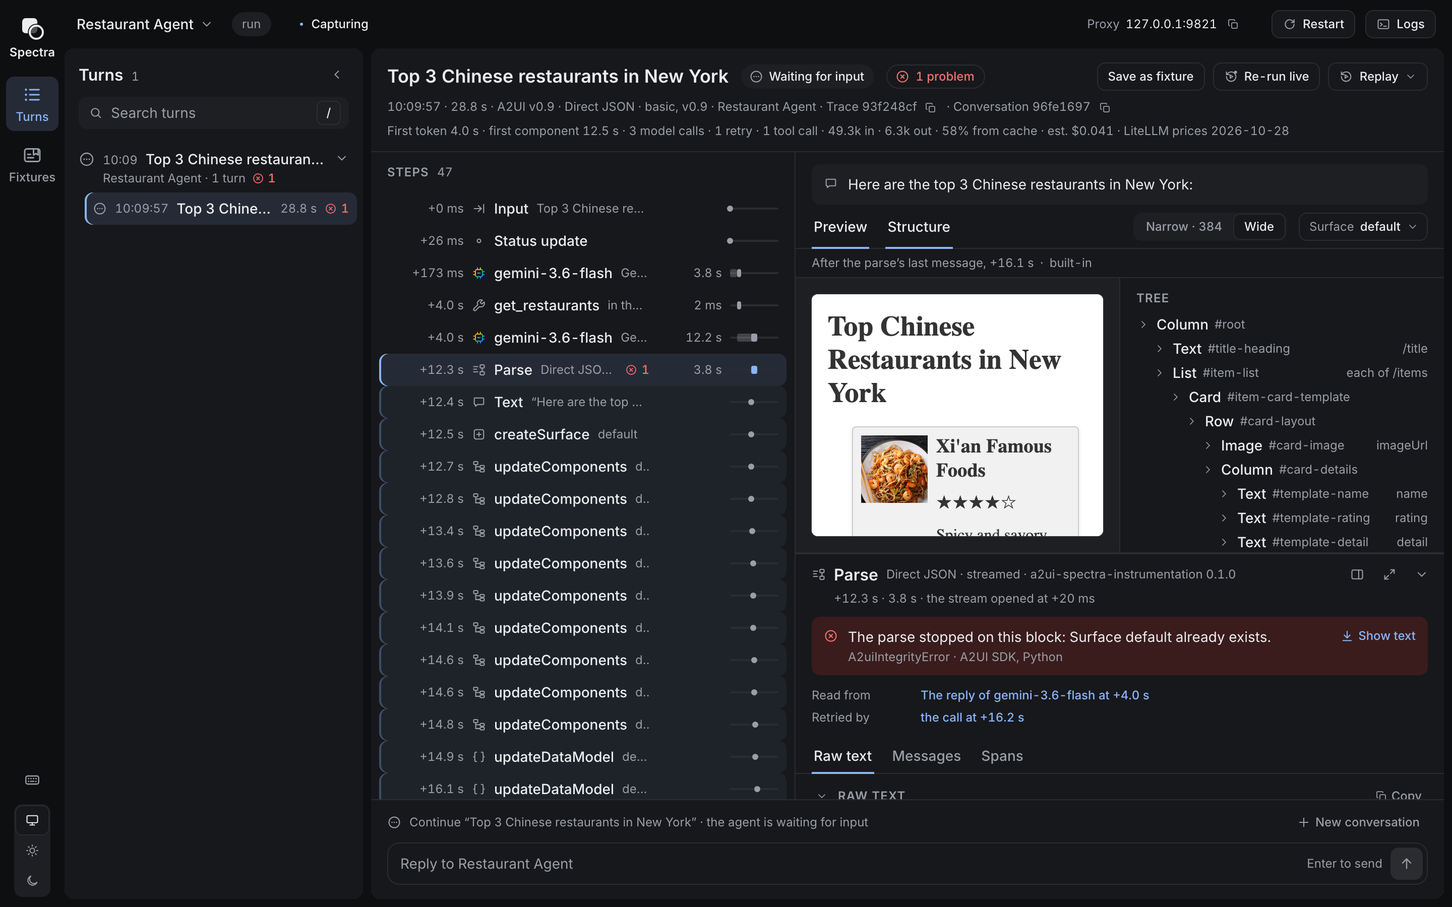
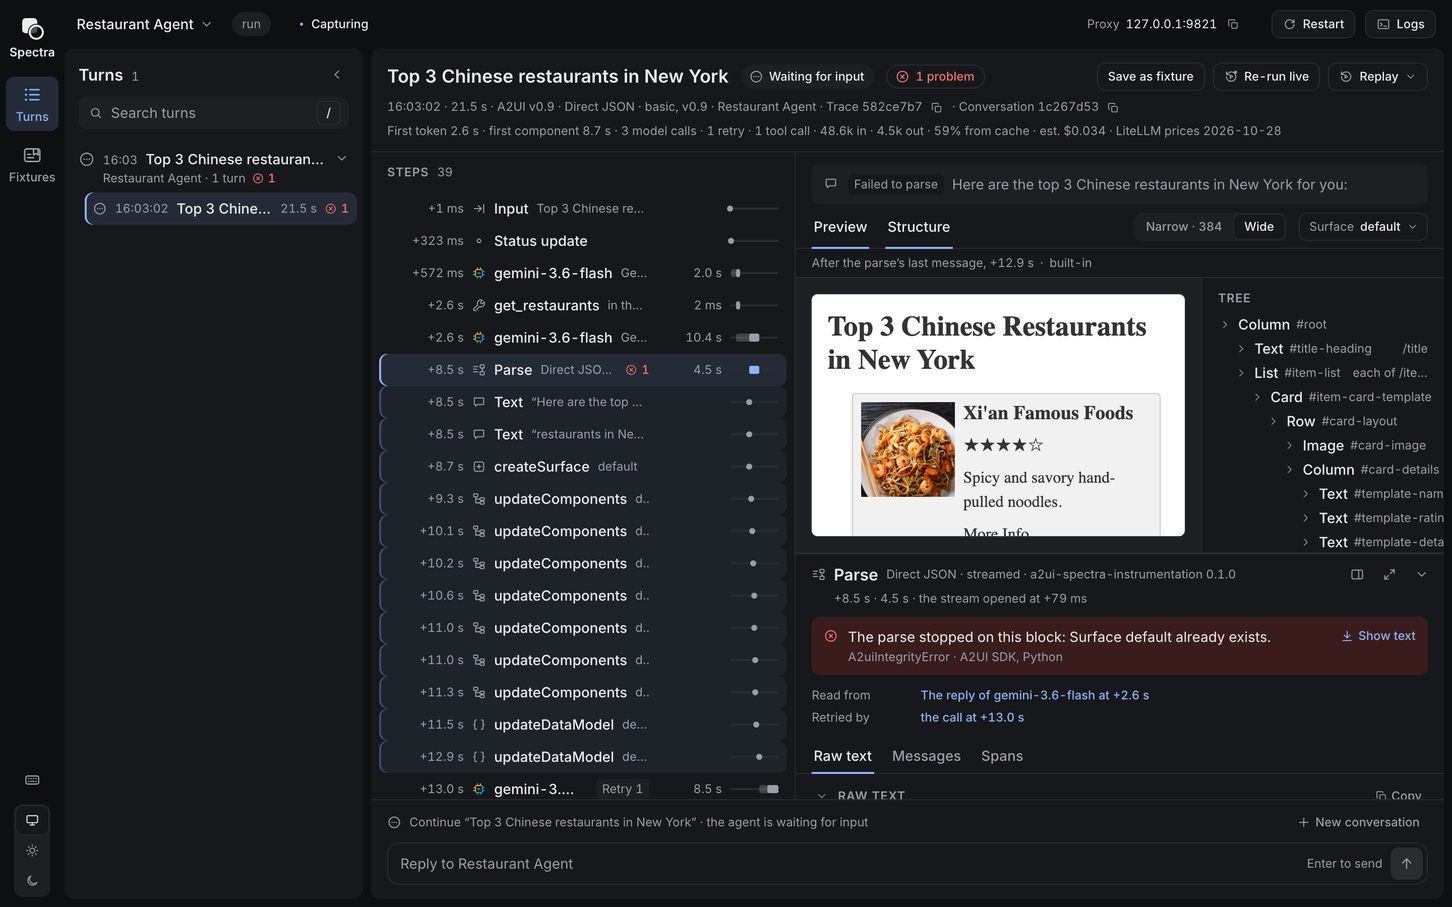
docs(phase-10): the seven images retaken on the viewer as built, the reply strip's "Failed to parse" tag on the reply the failed parse read, in the closed turn and in its replay, from one fresh run of upstream's Python restaurant finder on Gemini on the compiled binary, and the text quoting the run 

diff --git a/docs/design/viewer.md b/docs/design/viewer.md
@@ -51,14 +51,14 @@ The restaurant finder runs under `a2ui-spectra run`, with the Python wrapper swi
 
 <picture>
   <source media="(prefers-color-scheme: dark)" srcset="../images/viewer-dark.png">
-  <img alt="The viewer on the restaurant finder's turn. The turn list holds one conversation with one turn and one problem. The header reads Top 3 Chinese restaurants in New York, Waiting for input, 1 problem, with Save as fixture, Re-run live and Replay; under it the start, the duration, A2UI v0.9, Direct JSON, basic v0.9, the agent and the ids, then First token 4.0 s, first component 12.5 s, 3 model calls, 1 retry, 1 tool call, the tokens, 58% from cache and the estimated cost. The timeline's selected row is the parse, with one problem, and the rows it covers, from its text part to its last updateDataModel, are tinted. The result shows the preview of the restaurant card beside its tree, and the parse's detail below reads The parse stopped on this block: Surface default already exists, Read from the reply of gemini-3.6-flash at +4.0 s, Retried by the call at +16.2 s, then its tabs, Raw text open." src="../images/viewer-light.png">
+  <img alt="The viewer on the restaurant finder's turn. The turn list holds one conversation with one turn and one problem. The header reads Top 3 Chinese restaurants in New York, Waiting for input, 1 problem, with Save as fixture, Re-run live and Replay; under it the start, the duration, A2UI v0.9, Direct JSON, basic v0.9, the agent and the ids, then First token 2.6 s, first component 8.7 s, 3 model calls, 1 retry, 1 tool call, the tokens, 59% from cache and the estimated cost. The timeline's selected row is the parse, with one problem, and the rows it covers, from its text parts to its last updateDataModel, are tinted. The strip above the result reads the reply the parse read, Here are the top 3 Chinese restaurants in New York for you:, muted behind a grey Failed to parse tag. The result shows the preview of the restaurant card beside its tree, and the parse's detail below reads The parse stopped on this block: Surface default already exists, Read from the reply of gemini-3.6-flash at +2.6 s, Retried by the call at +13.0 s, then its tabs, Raw text open." src="../images/viewer-light.png">
 </picture>
 
 1. **The turn opens.** The live stream says a turn opened. The turn list gains a row with the open turn's spinner, and since the newest turn was selected, the page selects the new one. The timeline is marked Live and follows its newest row.
-2. **The steps arrive.** A status update, then the first model call, `gemini-3.6-flash` in Gemini's colours, then the tool call `get_restaurants`, "in the agent", read from the agent's spans, then the second model call, whose bar is lighter until its first token and darker after. The parse row, "Parse · Direct JSON · streamed", comes in at its first chunk, after the second model call, and draws a bar from there to its end. A text part and the A2UI messages follow, each a dot at its moment.
+2. **The steps arrive.** A status update, then the first model call, `gemini-3.6-flash` in Gemini's colours, then the tool call `get_restaurants`, "in the agent", read from the agent's spans, then the second model call, whose bar is lighter until its first token and darker after. The parse row, "Parse · Direct JSON · streamed", comes in at its first chunk, after the second model call, and draws a bar from there to its end. Its two text parts and the A2UI messages follow, each a dot at its moment.
 3. **The turn closes.** It ends waiting for input. The view lands on its first problem, the parse, and opens the step's detail on it. The header reads "1 problem"; its second line gives the start, the duration, the A2UI version, the inference format and the catalog the turn used; its third line the time to the first token and to the first component, the calls, the retry, the tokens, the share read from the cache and the estimated cost.
-4. **The parse's detail says what happened.** "The parse stopped on this block: Surface default already exists." over "A2uiIntegrityError · A2UI SDK, Python", with Show text. "Read from" links the model call whose reply the parse read, "The reply of gemini-3.6-flash at +4.0 s", and "Retried by" links the call that followed, "the call at +16.2 s". The Raw text tab under them has the rejected block in red.
-5. **The result shows the surfaces after the parse.** The note reads "After the parse’s last message", the Preview draws the restaurant card through the basic catalog's renderer, and Structure shows its tree, each row with the path it binds.
+4. **The parse's detail says what happened.** "The parse stopped on this block: Surface default already exists." over "A2uiIntegrityError · A2UI SDK, Python", with Show text. "Read from" links the model call whose reply the parse read, "The reply of gemini-3.6-flash at +2.6 s", and "Retried by" links the call that followed, "the call at +13.0 s". The Raw text tab under them has the rejected block in red.
+5. **The result shows the surfaces after the parse.** Its strip holds the reply the parse read, muted behind a grey "Failed to parse" tag. The note reads "After the parse’s last message", the Preview draws the restaurant card through the basic catalog's renderer, and Structure shows its tree, each row with the path it binds.
 6. **The retry says why.** Selecting the third model call shows, before its prefix break, a grey sentence naming the call whose reply failed and the error, with "failed to parse" a link back to the parse.
 
 A parse like that of step 4, as a turn record holds it. This is cut from a committed record of the same kind of retry, [`conformance/test_data/turn_record/v0_1/full_record_retried_parse.json`](../../conformance/test_data/turn_record/v0_1/full_record_retried_parse.json): a v1.0 booking turn assembled by hand from the wrapper capture suite's texts, not the screenshot's turn, whose streamed parse fails on a second `createSurface` of the same surface, and the record the viewer's end-to-end test opens. The input, the messages and the chunks are shortened here.
@@ -279,14 +279,14 @@ On the right of the first line sit [Save as fixture](#save-as-fixture), [Re-run 
 
 | Part                        | What it counts                                                                                                                                         |
 | --------------------------- | ------------------------------------------------------------------------------------------------------------------------------------------------------ |
-| "First token 4.0 s"         | From the turn's start to the first model call's first chunk, or its end when it did not stream or is read from spans only. A miss gives no first token |
-| "first component 12.5 s"    | From the turn's start to the first A2UI message                                                                                                        |
+| "First token 2.6 s"         | From the turn's start to the first model call's first chunk, or its end when it did not stream or is read from spans only. A miss gives no first token |
+| "first component 8.7 s"     | From the turn's start to the first A2UI message                                                                                                        |
 | "3 model calls"             | The model calls, raw ones and those read from spans only included                                                                                      |
 | "1 retry"                   | The retries among them, when there are any                                                                                                             |
 | "1 tool call"               | The full tool rows: housekeeping and the toolset's calls, shown as their parses, are left out                                                          |
-| "49.3k in · 6.3k out"       | The input and output tokens summed over the calls with usage, those read from spans only included, as `9.1k` above a thousand                          |
-| "58% from cache"            | The share of the input read from the cache, when the turn read any                                                                                     |
-| "est. $0.041"               | The estimated cost of the priced calls, to two significant figures and at most four decimals                                                           |
+| "48.6k in · 4.5k out"       | The input and output tokens summed over the calls with usage, those read from spans only included, as `9.1k` above a thousand                          |
+| "59% from cache"            | The share of the input read from the cache, when the turn read any                                                                                     |
+| "est. $0.034"               | The estimated cost of the priced calls, to two significant figures and at most four decimals                                                           |
 | "1 call unpriced"           | How many calls have no price                                                                                                                           |
 | "LiteLLM prices 2026-10-28" | The price table's date, or "prices from the config" when every priced call used the config's price                                                     |
 | "1 call recorded raw"       | How many calls were recorded raw                                                                                                                       |
@@ -588,11 +588,11 @@ The Fixtures section switches the panels: the fixtures list and the fixture view
 
 #### The fixture view
 
-The fixture view is the turn view's shape, under a fixture line: "Fixture" and the file's name, followed by its copy button, then the turn count, the recorded estimated cost, priced as the header's third line prices it, "recorded $0.041" or "recorded cost unknown", left out until the prices are read, or "nothing recorded to serve" on a record with nothing to serve, and when it was saved, "saved 2026-11-22 10:12".
+The fixture view is the turn view's shape, under a fixture line: "Fixture" and the file's name, followed by its copy button, then the turn count, the recorded estimated cost, priced as the header's third line prices it, "recorded $0.034" or "recorded cost unknown", left out until the prices are read, or "nothing recorded to serve" on a record with nothing to serve, and when it was saved, "saved 2026-11-22 16:03".
 
 <picture>
   <source media="(prefers-color-scheme: dark)" srcset="../images/replay-menu-dark.png">
-  <img alt="The Fixtures section with one fixture, chinese-restaurants, holding one turn with one problem. Its view's fixture line reads Fixture chinese-restaurants.json, 1 turn, recorded $0.041, saved 2026-11-22 10:12. The Replay popover is open with two rows: Everything recorded, Free, the model and the tools answer from the record; and Tools recorded, model live, Up to $0.041, a request that changed goes to the model." src="../images/replay-menu-light.png">
+  <img alt="The Fixtures section with one fixture, chinese-restaurants, holding one turn with one problem. Its view's fixture line reads Fixture chinese-restaurants.json, 1 turn, recorded $0.034, saved 2026-11-22 16:03. The Replay popover is open with two rows: Everything recorded, Free, the model and the tools answer from the record; and Tools recorded, model live, Up to $0.034, a request that changed goes to the model." src="../images/replay-menu-light.png">
 </picture>
 
 - A press in its preview is dropped.
@@ -612,7 +612,7 @@ Replay sits on the right of the header's first line, in Turns and in the fixture
 | Row                          | Cost label                                                                                                                                                                                                                    |
 | ---------------------------- | ----------------------------------------------------------------------------------------------------------------------------------------------------------------------------------------------------------------------------- |
 | "Everything recorded"        | "Free · the model and the tools answer from the record"; on a record with nothing to serve, by the server's rule, the row is off and reads "No model or tool calls were recorded"                                             |
-| "Tools recorded, model live" | "Up to $0.041 · a request that changed goes to the model", the record's recorded cost; "Cost unknown · a request that changed goes to the model" with no priced call; "Cost unknown · nothing recorded" with nothing to serve |
+| "Tools recorded, model live" | "Up to $0.034 · a request that changed goes to the model", the record's recorded cost; "Cost unknown · a request that changed goes to the model" with no priced call; "Cost unknown · nothing recorded" with nothing to serve |
 
 Both rows are off, with Re-run's note under their label, whenever [Re-run live](#re-run-live) is. The server is the authority on a refusal: its answer is shown in the popover, with nothing moved. Pressing a row starts the replay; the rows are off while the request is on its way, and the popover closes once the first turn has opened. The page switches to Turns and follows the replayed turns as they open, until another turn is selected or the address moves. In the fixture view, Replay replays the whole fixture, whatever turn is in view. What the two modes do is in [replay and fixtures](replay-and-fixtures.md).
 
@@ -636,7 +636,7 @@ A replayed turn has a fourth quiet line under its header: "Replayed from", the s
 
 <picture>
   <source media="(prefers-color-scheme: dark)" srcset="../images/replay-passed-dark.png">
-  <img alt="A replayed turn of the fixture. The header's third line reads First token 85 ms, first component 180 ms, 1 retry, 1 tool call, 3 calls from the record, free; the fourth line reads Replayed from chinese-restaurants.json, turn 1 of 1, everything recorded, passed. The served retry carries the grey tag Retry 1 · Record in the timeline." src="../images/replay-passed-light.png">
+  <img alt="A replayed turn of the fixture. The header's third line reads First token 63 ms, first component 129 ms, 1 retry, 1 tool call, 3 calls from the record, free; the fourth line reads Replayed from chinese-restaurants.json, turn 1 of 1, everything recorded, passed. The served retry carries the grey tag Retry 1 · Record in the timeline, and the reply the failed parse read is muted behind its Failed to parse tag." src="../images/replay-passed-light.png">
 </picture>
 
 A re-run turn's line reads "Re-run of", its source, its number of the total and "live", with no verdict and no colour, and its header's third line counts every call as live.

diff --git a/docs/design/turn-end-to-end.md b/docs/design/turn-end-to-end.md
@@ -64,7 +64,7 @@ The record states what each tap saw. The retry, the model call a parse read, the
 
 The restaurant finder runs from its folder in upstream's repository under `a2ui-spectra run`, launched through `opentelemetry-instrument` with [the recipe for a Python agent](opentelemetry.md#the-recipe-for-a-python-agent) and the Python wrapper, [switched on](a2ui-step.md#switching-it-on) by the same launch. Its model is Gemini's `gemini-3.6-flash`, which ADK calls through Google's SDK, google-genai. You send "Top 3 Chinese restaurants in New York" from the message box. The viewer, from that run:
 
-![The viewer on upstream's Python restaurant finder. The first screen names the agent, Restaurant Agent, capturing, with an example from its card and the wire proxy's address. Then the turn Top 3 Chinese restaurants in New York is open, its timeline marked Live: the input, a status update, the first model call, the tool call get_restaurants and the second model call arrive as steps, then a text part and the A2UI messages, while the built-in page draws the restaurant list in the preview and the tree grows in Structure. A third model call is tagged Retry 1. The turn closes waiting for input, with one problem, and the view lands on the parse.](../images/turn.gif)
+![The viewer on upstream's Python restaurant finder. The first screen names the agent, Restaurant Agent, capturing, with an example from its card and the wire proxy's address. Then the turn Top 3 Chinese restaurants in New York is open, its timeline marked Live: the input, a status update, the first model call, the tool call get_restaurants and the second model call arrive as steps, then two text parts and the A2UI messages, while the built-in page draws the restaurant list in the preview and the tree grows in Structure. A third model call is tagged Retry 1. The turn closes waiting for input, with one problem, and the view lands on the parse.](../images/turn.gif)
 
 The parts the turn crosses, in order:
 
@@ -250,10 +250,10 @@ The store then writes the turn as one turn record file, `.a2ui-spectra/turns/<co
 
 <picture>
   <source media="(prefers-color-scheme: dark)" srcset="../images/viewer-dark.png">
-  <img alt="The viewer on the closed turn. The context bar reads Restaurant Agent, run, Capturing, with the wire proxy's address 127.0.0.1:9821, Restart and Logs. The turn list holds one conversation with one turn and one problem. The header reads Top 3 Chinese restaurants in New York, Waiting for input, 1 problem, with Save as fixture, Re-run live and Replay; then 10:09:57, 28.8 s, A2UI v0.9, Direct JSON, basic v0.9, Restaurant Agent and the trace and conversation ids; then First token 4.0 s, first component 12.5 s, 3 model calls, 1 retry, 1 tool call, 49.3k in, 6.3k out, 58% from cache, est. $0.041, LiteLLM prices 2026-10-28. The timeline's selected row is the parse, and the rows it covers, from its text part to its last updateDataModel, are tinted. The result shows the restaurant card in the Preview beside its tree in Structure, and the parse's detail reads The parse stopped on this block: Surface default already exists, Read from the reply of gemini-3.6-flash at +4.0 s, Retried by the call at +16.2 s, then its tabs, Raw text open." src="../images/viewer-light.png">
+  <img alt="The viewer on the closed turn. The context bar reads Restaurant Agent, run, Capturing, with the wire proxy's address 127.0.0.1:9821, Restart and Logs. The turn list holds one conversation with one turn and one problem. The header reads Top 3 Chinese restaurants in New York, Waiting for input, 1 problem, with Save as fixture, Re-run live and Replay; then 16:03:02, 21.5 s, A2UI v0.9, Direct JSON, basic v0.9, Restaurant Agent and the trace and conversation ids; then First token 2.6 s, first component 8.7 s, 3 model calls, 1 retry, 1 tool call, 48.6k in, 4.5k out, 59% from cache, est. $0.034, LiteLLM prices 2026-10-28. The timeline's selected row is the parse, and the rows it covers, from its text parts to its last updateDataModel, are tinted. The strip above the result reads the reply the parse read, Here are the top 3 Chinese restaurants in New York for you:, muted behind a grey Failed to parse tag. The result shows the restaurant card in the Preview beside its tree in Structure, and the parse's detail reads The parse stopped on this block: Surface default already exists, Read from the reply of gemini-3.6-flash at +2.6 s, Retried by the call at +13.0 s, then its tabs, Raw text open." src="../images/viewer-light.png">
 </picture>
 
-The closed turn, from the same run. The viewer reads the session and the turns from Spectra's server, follows the live stream, and works out what it shows from the record. The header gives the request, the outcome, "Waiting for input", and the one problem; then the start, the duration, the A2UI version, the inference format and the catalog the turn used, the agent and the trace and conversation ids; then the time to the first token and to the first component, the 3 model calls, the 1 retry, the 1 tool call, the tokens, the share read from the cache and the estimated cost, with the date of the price table. The turn landed on its first problem: the parse, selected in the timeline among its 47 steps, its detail reading "The parse stopped on this block: Surface default already exists.", "Read from" the reply of the call at +4.0 s, and "Retried by" the call at +16.2 s, over its Raw text tab. The result beside the timeline shows the surface after the parse's last message, the restaurant card in the Preview and its tree in Structure, each node with the path it binds. The composer offers to continue the conversation, the agent waiting for input. [The viewer](viewer.md) takes the page area by area.
+The closed turn, from the same run. The viewer reads the session and the turns from Spectra's server, follows the live stream, and works out what it shows from the record. The header gives the request, the outcome, "Waiting for input", and the one problem; then the start, the duration, the A2UI version, the inference format and the catalog the turn used, the agent and the trace and conversation ids; then the time to the first token and to the first component, the 3 model calls, the 1 retry, the 1 tool call, the tokens, the share read from the cache and the estimated cost, with the date of the price table. The turn landed on its first problem: the parse, selected in the timeline among its 39 steps, its detail reading "The parse stopped on this block: Surface default already exists.", "Read from" the reply of the call at +2.6 s, and "Retried by" the call at +13.0 s, over its Raw text tab. The reply strip holds the reply the parse read, muted behind a grey "Failed to parse" tag. The result beside the timeline shows the surface after the parse's last message, the restaurant card in the Preview and its tree in Structure, each node with the path it binds. The composer offers to continue the conversation, the agent waiting for input. [The viewer](viewer.md) takes the page area by area.
 
 ### 9. The preview draws the surface
 
@@ -265,17 +265,17 @@ Save as fixture copies a turn's record, whole, into the fixtures folder, `a2ui-s
 
 <picture>
   <source media="(prefers-color-scheme: dark)" srcset="../images/replay-menu-dark.png">
-  <img alt="The Fixtures section with one fixture, chinese-restaurants, holding one turn with one problem. The fixture line reads Fixture chinese-restaurants.json, 1 turn, recorded $0.041, saved 2026-11-22 10:12, over the turn Top 3 Chinese restaurants in New York, 10:09:57, 28.8 s. The Replay menu is open: Everything recorded, Free, the model and the tools answer from the record; and Tools recorded, model live, Up to $0.041, a request that changed goes to the model." src="../images/replay-menu-light.png">
+  <img alt="The Fixtures section with one fixture, chinese-restaurants, holding one turn with one problem. The fixture line reads Fixture chinese-restaurants.json, 1 turn, recorded $0.034, saved 2026-11-22 16:03, over the turn Top 3 Chinese restaurants in New York, 16:03:02, 21.5 s. The Replay menu is open: Everything recorded, Free, the model and the tools answer from the record; and Tools recorded, model live, Up to $0.034, a request that changed goes to the model." src="../images/replay-menu-light.png">
 </picture>
 
-The same turn, saved as `chinese-restaurants.json`. The fixture line reads 1 turn, recorded $0.041, saved 2026-11-22 10:12, and the Replay menu offers its two modes, "Everything recorded", free, and "Tools recorded, model live", up to $0.041.
+The same turn, saved as `chinese-restaurants.json`. The fixture line reads 1 turn, recorded $0.034, saved 2026-11-22 16:03, and the Replay menu offers its two modes, "Everything recorded", free, and "Tools recorded, model live", up to $0.034.
 
 <picture>
   <source media="(prefers-color-scheme: dark)" srcset="../images/replay-passed-dark.png">
-  <img alt="The replayed turn, listed above the turn it replayed. Its header reads 10:12:42, 257 ms; First token 85 ms, first component 180 ms, 1 retry, 1 tool call, 3 calls from the record, free; and Replayed from chinese-restaurants.json, turn 1 of 1, everything recorded, passed. The served retry in the timeline carries Retry 1 · Record, and the parse's detail reads The parse stopped on this block: Surface default already exists, Read from the reply of gemini-3.6-flash at +107 ms, Retried by the call at +190 ms." src="../images/replay-passed-light.png">
+  <img alt="The replayed turn, listed above the turn it replayed. Its header reads 16:03:38, 198 ms; First token 63 ms, first component 129 ms, 1 retry, 1 tool call, 3 calls from the record, free; and Replayed from chinese-restaurants.json, turn 1 of 1, everything recorded, passed. The served retry in the timeline carries Retry 1 · Record, and the parse's detail reads The parse stopped on this block: Surface default already exists, Read from the reply of gemini-3.6-flash at +83 ms, Retried by the call at +153 ms, and the reply strip reads the reply it read behind its Failed to parse tag." src="../images/replay-passed-light.png">
 </picture>
 
-Its replay with everything recorded: 257 ms, "3 calls from the record · free", and "Replayed from chinese-restaurants.json · turn 1 of 1 · everything recorded · passed". The served model calls carry a Record tag, and the parse fails as it did in the recording, read from the reply served at +107 ms and retried by the call at +190 ms: the agent's own code runs again on the same replies.
+Its replay with everything recorded: 198 ms, "3 calls from the record · free", and "Replayed from chinese-restaurants.json · turn 1 of 1 · everything recorded · passed". The served model calls carry a Record tag, and the parse fails as it did in the recording, read from the reply served at +83 ms and retried by the call at +153 ms: the agent's own code runs again on the same replies.
 
 ## How the parts meet
 
